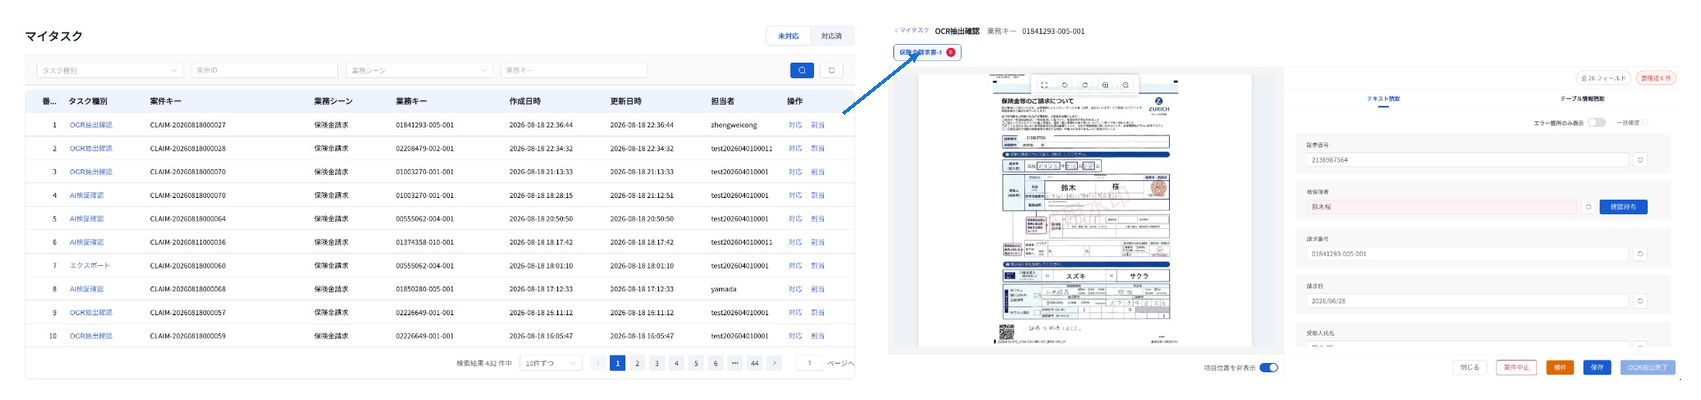
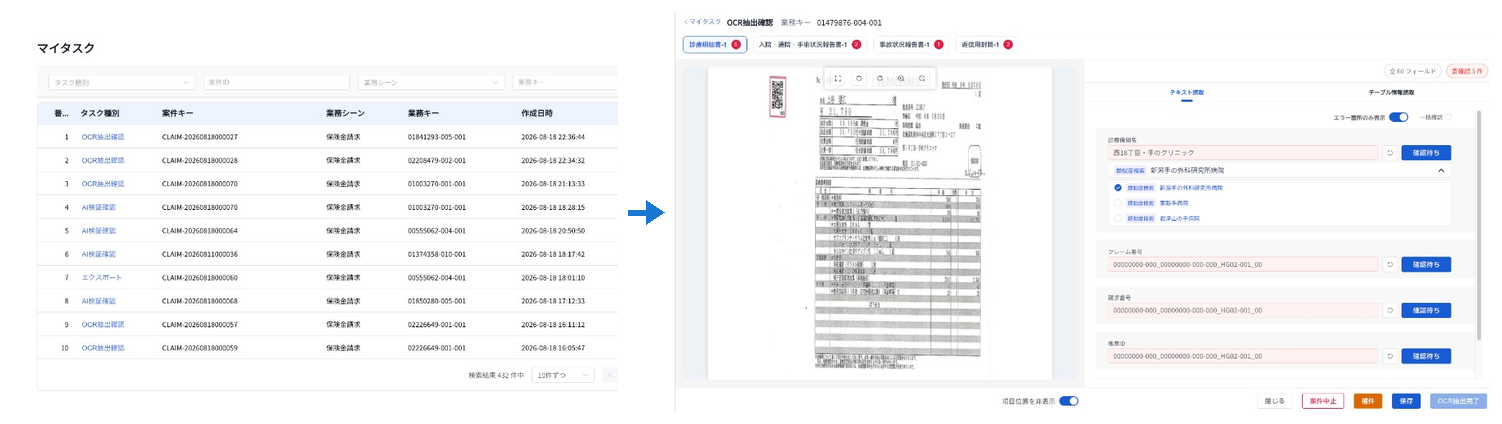
Simplify business-scene Step2 ops and refresh masked task screenshots.
Drop redundant node-config steps/screenshots from the scene manual, keep canvas/check/notify/export flow, and update OCR/export task shots with PII masked.

diff --git a/index.html b/index.html
@@ -714,15 +714,25 @@
               <thead><tr><th>Step</th><th>何を決めるか</th><th>下流への影響</th></tr></thead>
               <tbody>
                 <tr><td><span class="ui-text">Step1 案件集約</span></td><td>関連帳票、主帳票、業務キー、帳票間の関連項目。関連項目が一致すると帳票間に関連が生じます。グループ内は AND、グループ間は OR。<span class="ui-text">関連チェック</span> 通過後に Step2 へ進行。</td><td>案件一覧の集約結果、新規アップロード時の集約判定。</td></tr>
-                <tr><td><span class="ui-text">Step2 ワークフロー</span></td><td>導入時に設定済みのワークフローの確認。<span class="ui-text">設定チェック</span> で構成を検証。</td><td>案件の処理順、マイタスクの起票、再処理・補件の経路。</td></tr>
+                <tr><td><span class="ui-text">Step2 ワークフロー</span></td><td>キャンバスでのノード編成・接続・設定チェック。各ノードの対象 ON/OFF と分岐条件。ルール本体は帳票タイプ／データマッピング／AI 検証と連携。</td><td>案件の処理順、マイタスクの起票、再処理・補件の経路。</td></tr>
                 <tr><td><span class="ui-text">Step3 通知</span></td><td>どのノードのどのイベントで、誰へ通知するか。件名・本文は変数プールから変数を選んで自由に作成します。</td><td>トリガーイベント発生時に、設定した宛先へサイト内メッセージが自動送信されます。</td></tr>
                 <tr><td><span class="ui-text">Step4 出力・公開</span></td><td>出力項目と公開対象の確定。</td><td>マイタスクのエクスポート内容、新規案件が参照する公開版。</td></tr>
               </tbody>
             </table>
             <p>本製品の導入時には、業務シーンごとに案件集約・ワークフロー・通知・出力項目などが<strong>あらかじめ設定された状態</strong>で提供されます。お客様は通常、内容を確認し、必要に応じて調整するだけで構いません。</p>
 
-            <h4>Step2 各ノードの用途</h4>
-            <p>Step2 キャンバスでは、案件集約完了後の処理順序と分岐を確認します。導入時に<strong>ワークフローが設定済み</strong>のため、各ノードを一から構成する必要はありません。下表は各ノードの役割の参考です。OCR 抽出・データマッピング・AI 検証のルール本体は、それぞれ <span class="ui-text">帳票タイプ設定</span>・<span class="ui-text">データマッピング設定</span>・<span class="ui-text">AI検証設定</span> で管理します。</p>
+            <h4>Step2 キャンバスの操作</h4>
+            <p>Step2 では、案件集約後の処理順をノードで編成します。導入時に<strong>ワークフローが設定済み</strong>のため、通常は確認・微調整が中心です。キャンバスでは次ができます。</p>
+            <ul>
+              <li><strong>ノードの追加・配置</strong>：右下の <span class="ui-text">ノード追加</span>、またはノード一覧から前処理・OCR・データマッピング・AI 検証などを追加し、ドラッグで配置します。</li>
+              <li><strong>接続の編成</strong>：ノード間を線でつなぎ、処理順と分岐先を決めます。<span class="ui-text">開始</span> から <span class="ui-text">終了</span> まで到達できる必要があります。</li>
+              <li><strong>左下の編集ツールバー</strong>：左から <span class="ui-text">元に戻す</span> / <span class="ui-text">やり直し</span> / <span class="ui-text">変更履歴</span>（この画面を開いている間のみ保持）/ <span class="ui-text">削除</span>（開始ノード以外を一括削除。確認ダイアログあり）。</li>
+              <li><strong>右下のツールバー</strong>：左から <span class="ui-text">ノード追加</span> / <span class="ui-text">拡大</span> / <span class="ui-text">縮小</span> / <span class="ui-text">整列・適応サイズ</span>（ノード配置を整え、全ノードが画面に収まるよう表示を合わせる）。</li>
+              <li><strong>設定チェック</strong>：終了到達・分岐出口・必須 ON 項目などを静的検証し、通過すると <span class="ui-text">公開可能</span> になります（テスト案件は実行しません）。</li>
+            </ul>
+
+            <h4>Step2 各ノードの用途と他モジュール連携</h4>
+            <p>各ノードはキャンバス上の「実行単位」です。ルール本体は他モジュールで管理し、ノード側では対象の ON/OFF や分岐条件を決めます。下表を参考にしてください。</p>
             <table class="info-table">
               <thead>
                 <tr><th>ノード</th><th>用途</th><th>主な出力変数</th></tr>
@@ -735,32 +745,32 @@
                 </tr>
                 <tr>
                   <td><span class="ui-text">前処理</span></td>
-                  <td>OCR 前に画像を回転・補正・整列し、読取精度を安定させる。本期では前処理結果を人工確認タスクとして起票しません。</td>
+                  <td>OCR 前に画像を回転・補正・整列。帳票タイプの画像処理設定と連携し、対象帳票をノードで ON にします。本期は前処理結果を人工確認タスク化しません。</td>
                   <td><span class="code-text">preprocessStatus</span>（通知）、<span class="code-text">preprocessResult</span>（条件）</td>
                 </tr>
                 <tr>
                   <td><span class="ui-text">OCR 抽出</span></td>
-                  <td>Step1 で選んだ帳票ごとに OCR テンプレートを実行し、項目・表格列を抽出する。</td>
+                  <td>帳票ごとに OCR を実行。<span class="ui-text">帳票タイプ設定</span> の AI 読取・処理ルール・読取モデルを参照し、対象帳票をノードで ON にします。</td>
                   <td><span class="code-text">ocrStatus</span>（通知）、<span class="code-text">ocrResult</span>（条件）</td>
                 </tr>
                 <tr>
                   <td><span class="ui-text">データマッピング</span></td>
-                  <td>複数帳票の OCR 項目を案件単位の標準変数に統一する。</td>
+                  <td>OCR 項目を標準変数へ統一。<span class="ui-text">データマッピング設定</span> のルールを実行し、後続の AI 検証・出力で使います。</td>
                   <td><span class="code-text">mappingStatus</span>（通知）、<span class="code-text">standardFields.*</span>（条件）</td>
                 </tr>
                 <tr>
                   <td><span class="ui-text">AI 検証</span></td>
-                  <td>必須フィールド、必要書類、各種検証ルールを AI で実行する。</td>
+                  <td>必須・必要書類・整合性などを検証。<span class="ui-text">AI検証設定</span> のルールを参照し、モジュールをノードで ON にします。結果は IF/ELSE・人工確認へ渡します。</td>
                   <td><span class="code-text">verifyStatus</span>（通知）、<span class="code-text">verifyResult</span>（条件）</td>
                 </tr>
                 <tr>
                   <td><span class="ui-text">IF/ELSE</span></td>
-                  <td>OCR 抽出や AI 検証など、人工確認対象となる上流ノードの処理結果で分岐し、主フローか人工確認かを決める。</td>
+                  <td>上流の <span class="code-text">*Result</span> などで分岐（例：<span class="code-text">verifyResult = passed</span>）。主フローへ進むか人工確認へ回すかを編成します。</td>
                   <td>なし</td>
                 </tr>
                 <tr>
                   <td><span class="ui-text">人工確認</span></td>
-                  <td>要確認・低信頼・検証 NG などを担当者が目視確認し、完了 / 補件 / 案件中止のいずれかで後続へ進める。指派先ロールは操作員・操作管理者のみ選択可能。最初の人工確認ノードで選択したロールから案件担当者が自動指名され、以降同じロールのノードは同じ担当者が継続、ロール切替時は新ロールから再指名される。</td>
+                  <td>要確認を <span class="ui-text">マイタスク</span> で目視確認（完了／補件／案件中止）。担当ロールは操作員・操作管理者のみ。最初の人工確認ノードのロールから案件担当者を自動指名し、同ロールは継続、ロール切替時は再指名。</td>
                   <td><span class="code-text">hitlStatus</span>（通知）</td>
                 </tr>
                 <tr>
@@ -817,17 +827,17 @@
               <p><span class="step-code">4</span><span class="step-text">右側の <span class="ui-text">関連プレビュー</span> で関連図を確認し、<span class="ui-text">関連チェック</span> を実行します。すべての帳票が関連でつながっていることを確認できたら <span class="ui-text">次へ</span> で進めます（成功時は自動保存のため、ここでは <span class="ui-text">保存</span> 不要です）。</span></p>
               <figure class="screenshot-figure"><div class="shot-wrap"><a class="shot-link" href="assets/business-scene-s1-flow-preview-check.png?v=1" data-lightbox="manual-shots" aria-label="関連プレビューと関連チェックを拡大表示"><img src="assets/business-scene-s1-flow-preview-check.png?v=1" alt="関連プレビューと関連チェック成功"></a></div><figcaption>関連プレビューと関連チェック成功。</figcaption></figure>
             </div>
-            <div class="operation-step">
-              <p><span class="step-code">5</span><span class="step-text"><span class="ui-text">ワークフロー</span>：導入時に設定済みのフロー（<span class="ui-text">開始</span> → <span class="ui-text">前処理</span> → <span class="ui-text">OCR 抽出</span> → … → <span class="ui-text">終了</span>）を確認します。通常は一から構成する必要はありません。</span></p>
-              <figure class="screenshot-figure" data-shot="business-scene-step2-canvas"><div class="shot-wrap"><a class="shot-link" href="assets/business-scene-step2-canvas-flow.png?v=11" data-lightbox="manual-shots" aria-label="ワークフローキャンバスを拡大表示"><img src="assets/business-scene-step2-canvas-flow.png?v=11" alt="保険金請求ワークフロー キャンバス"></a></div><figcaption>初期投入されたワークフロー。各ノードの役割は <a class="jump-link" href="#scene-function">機能説明</a> を参照。</figcaption></figure>
+                        <div class="operation-step">
+              <p><span class="step-code">5</span><span class="step-text"><span class="ui-text">ワークフロー・キャンバス</span>：導入済みフローの全体（<span class="ui-text">開始</span> → 処理ノード → 分岐 → <span class="ui-text">人工確認</span> → <span class="ui-text">終了</span>）を確認します。通常は一から組み直す必要はありません。</span></p>
+              <figure class="screenshot-figure" data-shot="business-scene-step2-canvas"><div class="shot-wrap"><a class="shot-link" href="assets/business-scene-step2-canvas-flow.png?v=11" data-lightbox="manual-shots" aria-label="ワークフローキャンバスを拡大表示"><img src="assets/business-scene-step2-canvas-flow.png?v=11" alt="保険金請求ワークフロー キャンバス"></a></div><figcaption>キャンバス全体。ノードの役割は <a class="jump-link" href="#scene-function">機能説明</a> を参照。</figcaption></figure>
             </div>
             <div class="operation-step">
-              <p><span class="step-code">6</span><span class="step-text">各ノードを開き、前処理・OCR・データマッピング・AI 検証などの対象が意図どおりか確認します。詳細ルールは各設定画面へのリンクから編集します。</span></p>
-              <figure class="screenshot-figure"><div class="shot-wrap"><a class="shot-link" href="assets/business-scene-step2-nodes-process-flow.png" data-lightbox="manual-shots" aria-label="ワークフロー各ノード設定を拡大表示"><img src="assets/business-scene-step2-nodes-process-flow.png" alt="前処理・OCR・データマッピング・AI検証のノード設定"></a></div><figcaption>主要ノードの設定例。</figcaption></figure>
+              <p><span class="step-code">6</span><span class="step-text"><span class="ui-text">ノードの編成</span>：必要に応じてノードを追加し、ドラッグで配置、線で接続して処理順を組みます。<span class="ui-text">開始</span> から各処理・分岐を経て <span class="ui-text">終了</span> まで到達できる経路にします。ショートカット（元に戻す／ノード追加／整列・適応サイズなど）は <a class="jump-link" href="#scene-function">機能説明</a> を参照してください。
+              </span></p>
             </div>
             <div class="operation-step">
-              <p><span class="step-code">7</span><span class="step-text"><span class="ui-text">設定チェック</span> を実行し、問題なければ保存します（公開は後続で行います）。</span></p>
-              <figure class="screenshot-figure"><div class="shot-wrap"><a class="shot-link" href="assets/business-scene-step2-check-flow.png" data-lightbox="manual-shots" aria-label="設定チェック完了を拡大表示"><img src="assets/business-scene-step2-check-flow.png" alt="設定チェック完了・公開可能"></a></div><figcaption><span class="ui-text">設定チェック</span> 通過で公開可能になります。</figcaption></figure>
+              <p><span class="step-code">7</span><span class="step-text"><span class="ui-text">設定チェック</span>：編成後に実行し、終了到達・分岐出口・必須項目などを検証します。通過すると <span class="ui-text">公開可能</span> になります。問題なければ保存し、次へ進みます（公開は後続ステップ）。各ノードの用途・設定・他モジュール連携は <a class="jump-link" href="#scene-function">機能説明</a> を参照してください。</span></p>
+              <figure class="screenshot-figure"><div class="shot-wrap"><a class="shot-link" href="assets/business-scene-step2-check-flow.png?v=2" data-lightbox="manual-shots" aria-label="設定チェック完了を拡大表示"><img src="assets/business-scene-step2-check-flow.png?v=2" alt="設定チェック完了・公開可能"></a></div><figcaption><span class="ui-text">設定チェック</span> 通過で公開可能。</figcaption></figure>
             </div>
             <div class="operation-step">
               <p><span class="step-code">8</span><span class="step-text"><span class="ui-text">通知</span>：対象ノード・トリガー・通知先を設定し、件名・本文は変数プールから変数を選んで作成します。イベント発生時にサイト内メッセージが自動送信されます。</span></p>
@@ -1240,16 +1250,16 @@
             <p><span class="step-code">2</span><span class="step-text"><span class="ui-text">OCR 抽出確認</span>：一覧の <span class="ui-text">対応</span> から実行画面を開き、左の帳票プレビューと右の <span class="ui-text">テキスト読取</span> / <span class="ui-text">テーブル情報読取</span> で抽出値を確認・修正します。<span class="ui-text">項目位置を非表示</span> を ON にすると切り出し画像と帳票上の対応領域が連動します。マスタ照合フィールドでは <span class="ui-text">類似度検索</span> 候補から正規値を選べます。確認後、フッターの <span class="ui-text">OCR 抽出完了</span> で後続ノードへ進みます。</span></p>
             <figure class="screenshot-figure">
               <div class="shot-wrap">
-                <a class="shot-link" href="assets/operator-task-ocr-entry-flow.png?v=8" data-lightbox="manual-shots" aria-label="マイタスク一覧から OCR 抽出確認画面への遷移を拡大表示">
-                  <img src="assets/operator-task-ocr-entry-flow.png?v=8" alt="マイタスク一覧から OCR 抽出確認画面">
+                <a class="shot-link" href="assets/operator-task-ocr-entry-flow.png?v=9" data-lightbox="manual-shots" aria-label="マイタスク一覧から OCR 抽出確認画面への遷移を拡大表示">
+                  <img src="assets/operator-task-ocr-entry-flow.png?v=9" alt="マイタスク一覧から OCR 抽出確認画面">
                 </a>
               </div>
               <figcaption>Step2：一覧から OCR 抽出確認画面への遷移。</figcaption>
             </figure>
             <figure class="screenshot-figure" data-shot="operator-task-ocr">
               <div class="shot-wrap">
-                <a class="shot-link" href="assets/operator-task-ocr-position-marked.png?v=8" data-lightbox="manual-shots" aria-label="項目位置を非表示にした OCR 抽出確認画面を拡大表示">
-                  <img src="assets/operator-task-ocr-position-marked.png?v=8" alt="項目位置を非表示にした OCR 抽出確認画面">
+                <a class="shot-link" href="assets/operator-task-ocr-position-marked.png?v=10" data-lightbox="manual-shots" aria-label="項目位置を非表示にした OCR 抽出確認画面を拡大表示">
+                  <img src="assets/operator-task-ocr-position-marked.png?v=10" alt="項目位置を非表示にした OCR 抽出確認画面">
                 </a>
               </div>
               <figcaption>Step2：<span class="ui-text">テキスト読取</span> と <span class="ui-text">テーブル情報読取</span>、マスタ照合候補の確認。</figcaption>
@@ -1276,8 +1286,8 @@
             <p><span class="step-code">4</span><span class="step-text"><span class="ui-text">エクスポート</span>：<span class="ui-text">出力形式</span>（CSV / JSON / EXCEL）を選び、左の <span class="ui-text">エクスポート対象</span> ツリーと右のプレビューで出力内容を確認します。<span class="ui-text">処理結果をエクスポート</span> で結果ファイルを出力し、必要に応じて <span class="ui-text">前処理済み ZIP</span> を取得したうえで <span class="ui-text">エクスポート完了</span> をクリックします。</span></p>
             <figure class="screenshot-figure" data-shot="operator-task-export">
               <div class="shot-wrap">
-                <a class="shot-link" href="assets/operator-task-export-confirm.png?v=8" data-lightbox="manual-shots" aria-label="マイタスク エクスポート確認画面を拡大表示">
-                  <img src="assets/operator-task-export-confirm.png?v=8" alt="マイタスク エクスポート確認画面">
+                <a class="shot-link" href="assets/operator-task-export-confirm.png?v=9" data-lightbox="manual-shots" aria-label="マイタスク エクスポート確認画面を拡大表示">
+                  <img src="assets/operator-task-export-confirm.png?v=9" alt="マイタスク エクスポート確認画面">
                 </a>
               </div>
               <figcaption>Step4：出力形式・対象ファイル・フィールド値の確認とエクスポート。</figcaption>
